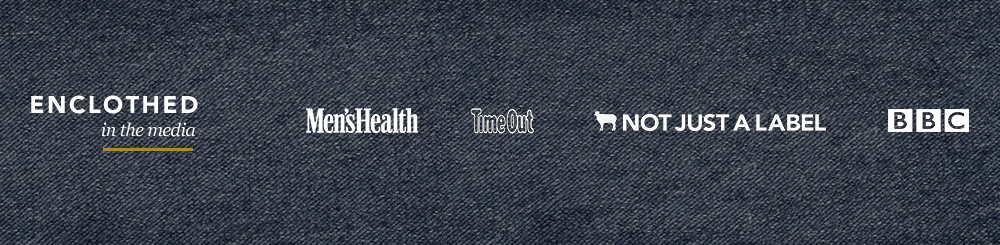
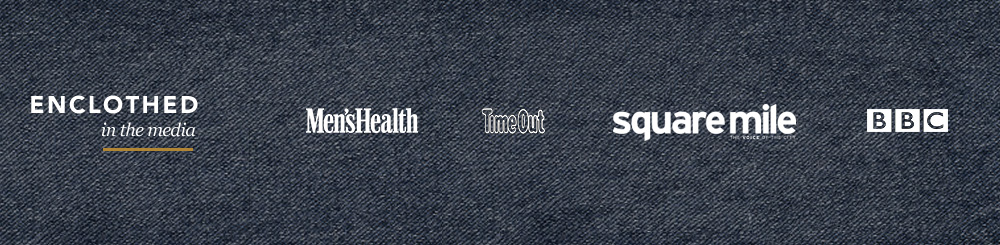
Homepage updates

Changed region(s): [[0.589, 0.4286, 0.837, 0.5714], [0.868, 0.4286, 0.992, 0.5429], [0.465, 0.4286, 0.558, 0.5429]]

diff --git a/wp-content/themes/dante-child/style.css b/wp-content/themes/dante-child/style.css
@@ -850,6 +850,9 @@ color:#fff !important;
 	max-width:700px;
 	margin: auto;
 }
+.home_page .area2 a.sf-button{ 
+ margin-top:30px;
+}
 .home_page .area3{
 	margin-top: -160px;
 }
@@ -866,6 +869,46 @@ color:#fff !important;
 .home_page .menu_get_started{ display: none !important;
 }
 
+.mens_health_link{
+	position:absolute; 
+	width:17%;
+	height:100%;
+	top:0;
+	left: 28%;
+	z-index: 1;
+}
+.timeout_link{
+	position:absolute; 
+	width:13%;
+	height:100%;
+	top:0;
+	left: 45%;
+	z-index: 1;
+}
+.square_mile_link{
+	position:absolute; 
+	width:25%;
+	height:100%;
+	top:0;
+	left: 58%;
+	z-index: 1;
+}
+.bbc_link{
+	position:absolute; 
+	width:17%;
+	height:100%;
+	top:0;
+	left: 83%;
+	z-index: 1;
+}				
+.link_cover{
+	position:absolute; 
+	width:100%;
+	height:100%;
+	top:0;
+	left: 0;
+	z-index: 1;
+}
 
 
 

diff --git a/wp-content/themes/dante-child/home.php b/wp-content/themes/dante-child/home.php
@@ -207,14 +207,16 @@
 
 
 								<div class="col-sm-6 featured_blog_boxes_wrapper featured1">
-						<div class="col-sm-12 featured_blog_box_left" style="background-image: url(wp-content/themes/dante-child/images/featured3_bg.jpg);">
-							<h2>Hand Picked Outfits Shipped to your Door</h2>
-							<p>Delivery and collections are free of charge Only pay for what you keep.</p>
+						<div class="col-sm-12 featured_blog_box_left" style="background-image: url(wp-content/themes/dante-child/images/tweed.jpg);">
+							<h2>Tweed lifestyle</h2>
+							<p>Originally favoured for country sports and now a fashion staple tweed jackets are resistant and durable, a timeless classic, which we think everyone should own!</p>
 						</div>
 
 				</div>
 
+
 				<div class="col-sm-6 social_boxes_wrapper">
+					<a href="https://www.facebook.com/Enclothed" target="_blank" class="link_cover"></a>
 				<?php 
 					$fb_image_url = get_fb_post_image(2);
 					if ($fb_image_url == 'default') {
@@ -277,8 +279,8 @@
 					foreach ( $myposts as $post ) : setup_postdata( $post ); ?>
 					<?php $img = wp_get_attachment_image_src( get_post_thumbnail_id($post->ID), 'home-featured' ); ?>
 						<div class="col-sm-12 featured_blog_box_left" style="background-image: url(wp-content/themes/dante-child/images/featured4_bg.jpg);">
-							<h2>Enclothed<br/>gives you time</h2>
-							<p>Time is the one thing we can never get back - we want you to spend it on the things you want to</p>
+							<h2>Smart trainers</h2>
+							<p>Buying smart trainers can be a minefield. You want something good quality, smart that you can wear to the office on a Friday, that goes with chinos or dark jeans and that will last you well.</p>
 
 						</div>
 					<?php endforeach; 
@@ -288,6 +290,7 @@
 
 
 				<div class="col-sm-6 social_boxes_wrapper">
+					<a href="http://instagram.com/enclothed" target="_blank" class="link_cover"></a>
 					<div class="col-sm-6 social_box_left" style="background-image: url(<?php echo $streams->getInstagramLastPostImage(); ?>); background-size: cover">
 					</div>
 					<div class="col-sm-6 social_box_right">
@@ -308,12 +311,13 @@
 				</div>
 
 				<div class="col-sm-12 no-margin no-padding" style=" float:left;">
+					<a href="http://www.menshealth.co.uk/style/tips/easiest-way-to-upgrade-your-wardrobe" target="_blank" class="mens_health_link"></a>
+					<a href="#" target="_blank" class="timeout_link"></a>
+					<a href="http://www.squaremile.com/detail-therapy/27/enclothed/" target="_blank" class="square_mile_link"></a>
+					<a href="http://www.bbc.co.uk/programmes/p0151rml" target="_blank" class="bbc_link"></a>
 				<img class="image-responsive" alt="line" src="/wp-content/themes/dante-child/images/enclothed_in_the_media.jpg">
 				</div>
 	
-
-
-
 			</div>
 		</div> 
 	</div> 
